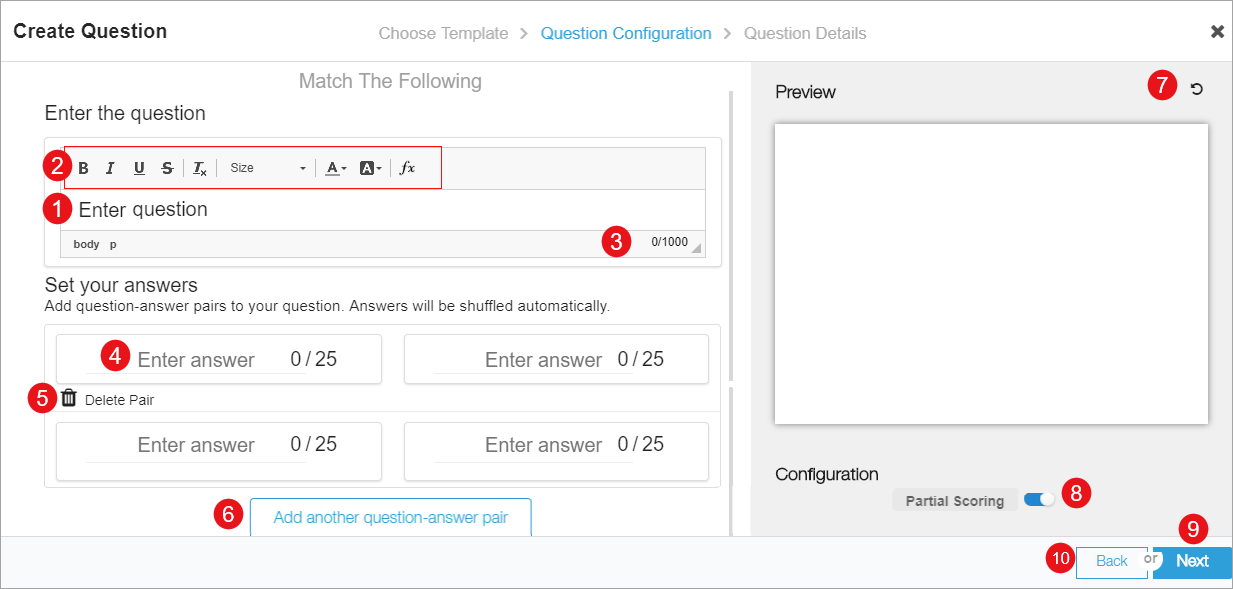
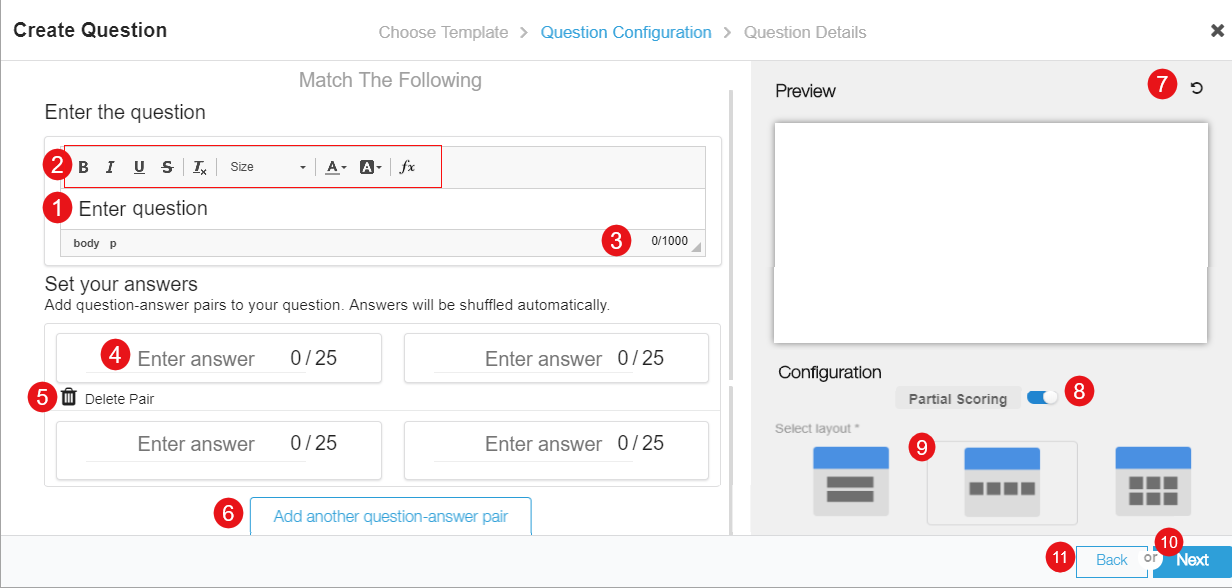
Save in QS

diff --git a/pages/features-documentation/questionset_create.md b/pages/features-documentation/questionset_create.md
@@ -181,8 +181,9 @@ The delete option is available only for the questions that you have created
   <br>6. Select <b>Add another question answer pair</b> to add another question and answer
   <br>7. Select <b>Refresh</b> icon to preview your question  
   <br>8. Select <b>Partial Scoring</b> to enable scoring for each correct answer
-  <br>9. Click <b>Next</b> to enter the Question Details
-  <br>10. Select <b>Back</b> to go back to the previous page 
+  <br>9. Select <b>Layout</b> from the sample layout
+  <br>10. Click <b>Next</b> to enter the Question Details
+  <br>11. Select <b>Back</b> to go back to the previous page 
   <br><b>Note</b>: Editing a Match the following question displays all the above options 
  </td>
     <td><img src="pages/features-documentation/images/questionset/matchthefollowing.png"></td>
@@ -217,7 +218,8 @@ The delete option is available only for the questions that you have created
     <br>13.Choose <b>Select Layout</b>
     <br>14.Select <b>Shuffle Option</b>    
     <br>15. Click <b>Submit</b> to configure the question details
-    <br>16. Select <b>Back</b> to go back to the previous page 
+    <br>16.Click <b>Save and Create</b> to save the existing question and add another question 
+    <br>17.Click <b>Back</b> to go back to the previous page
   </td>
   <td><img src="pages/features-documentation/images/questionset/questiondetails.png"></td>
  </tr>
